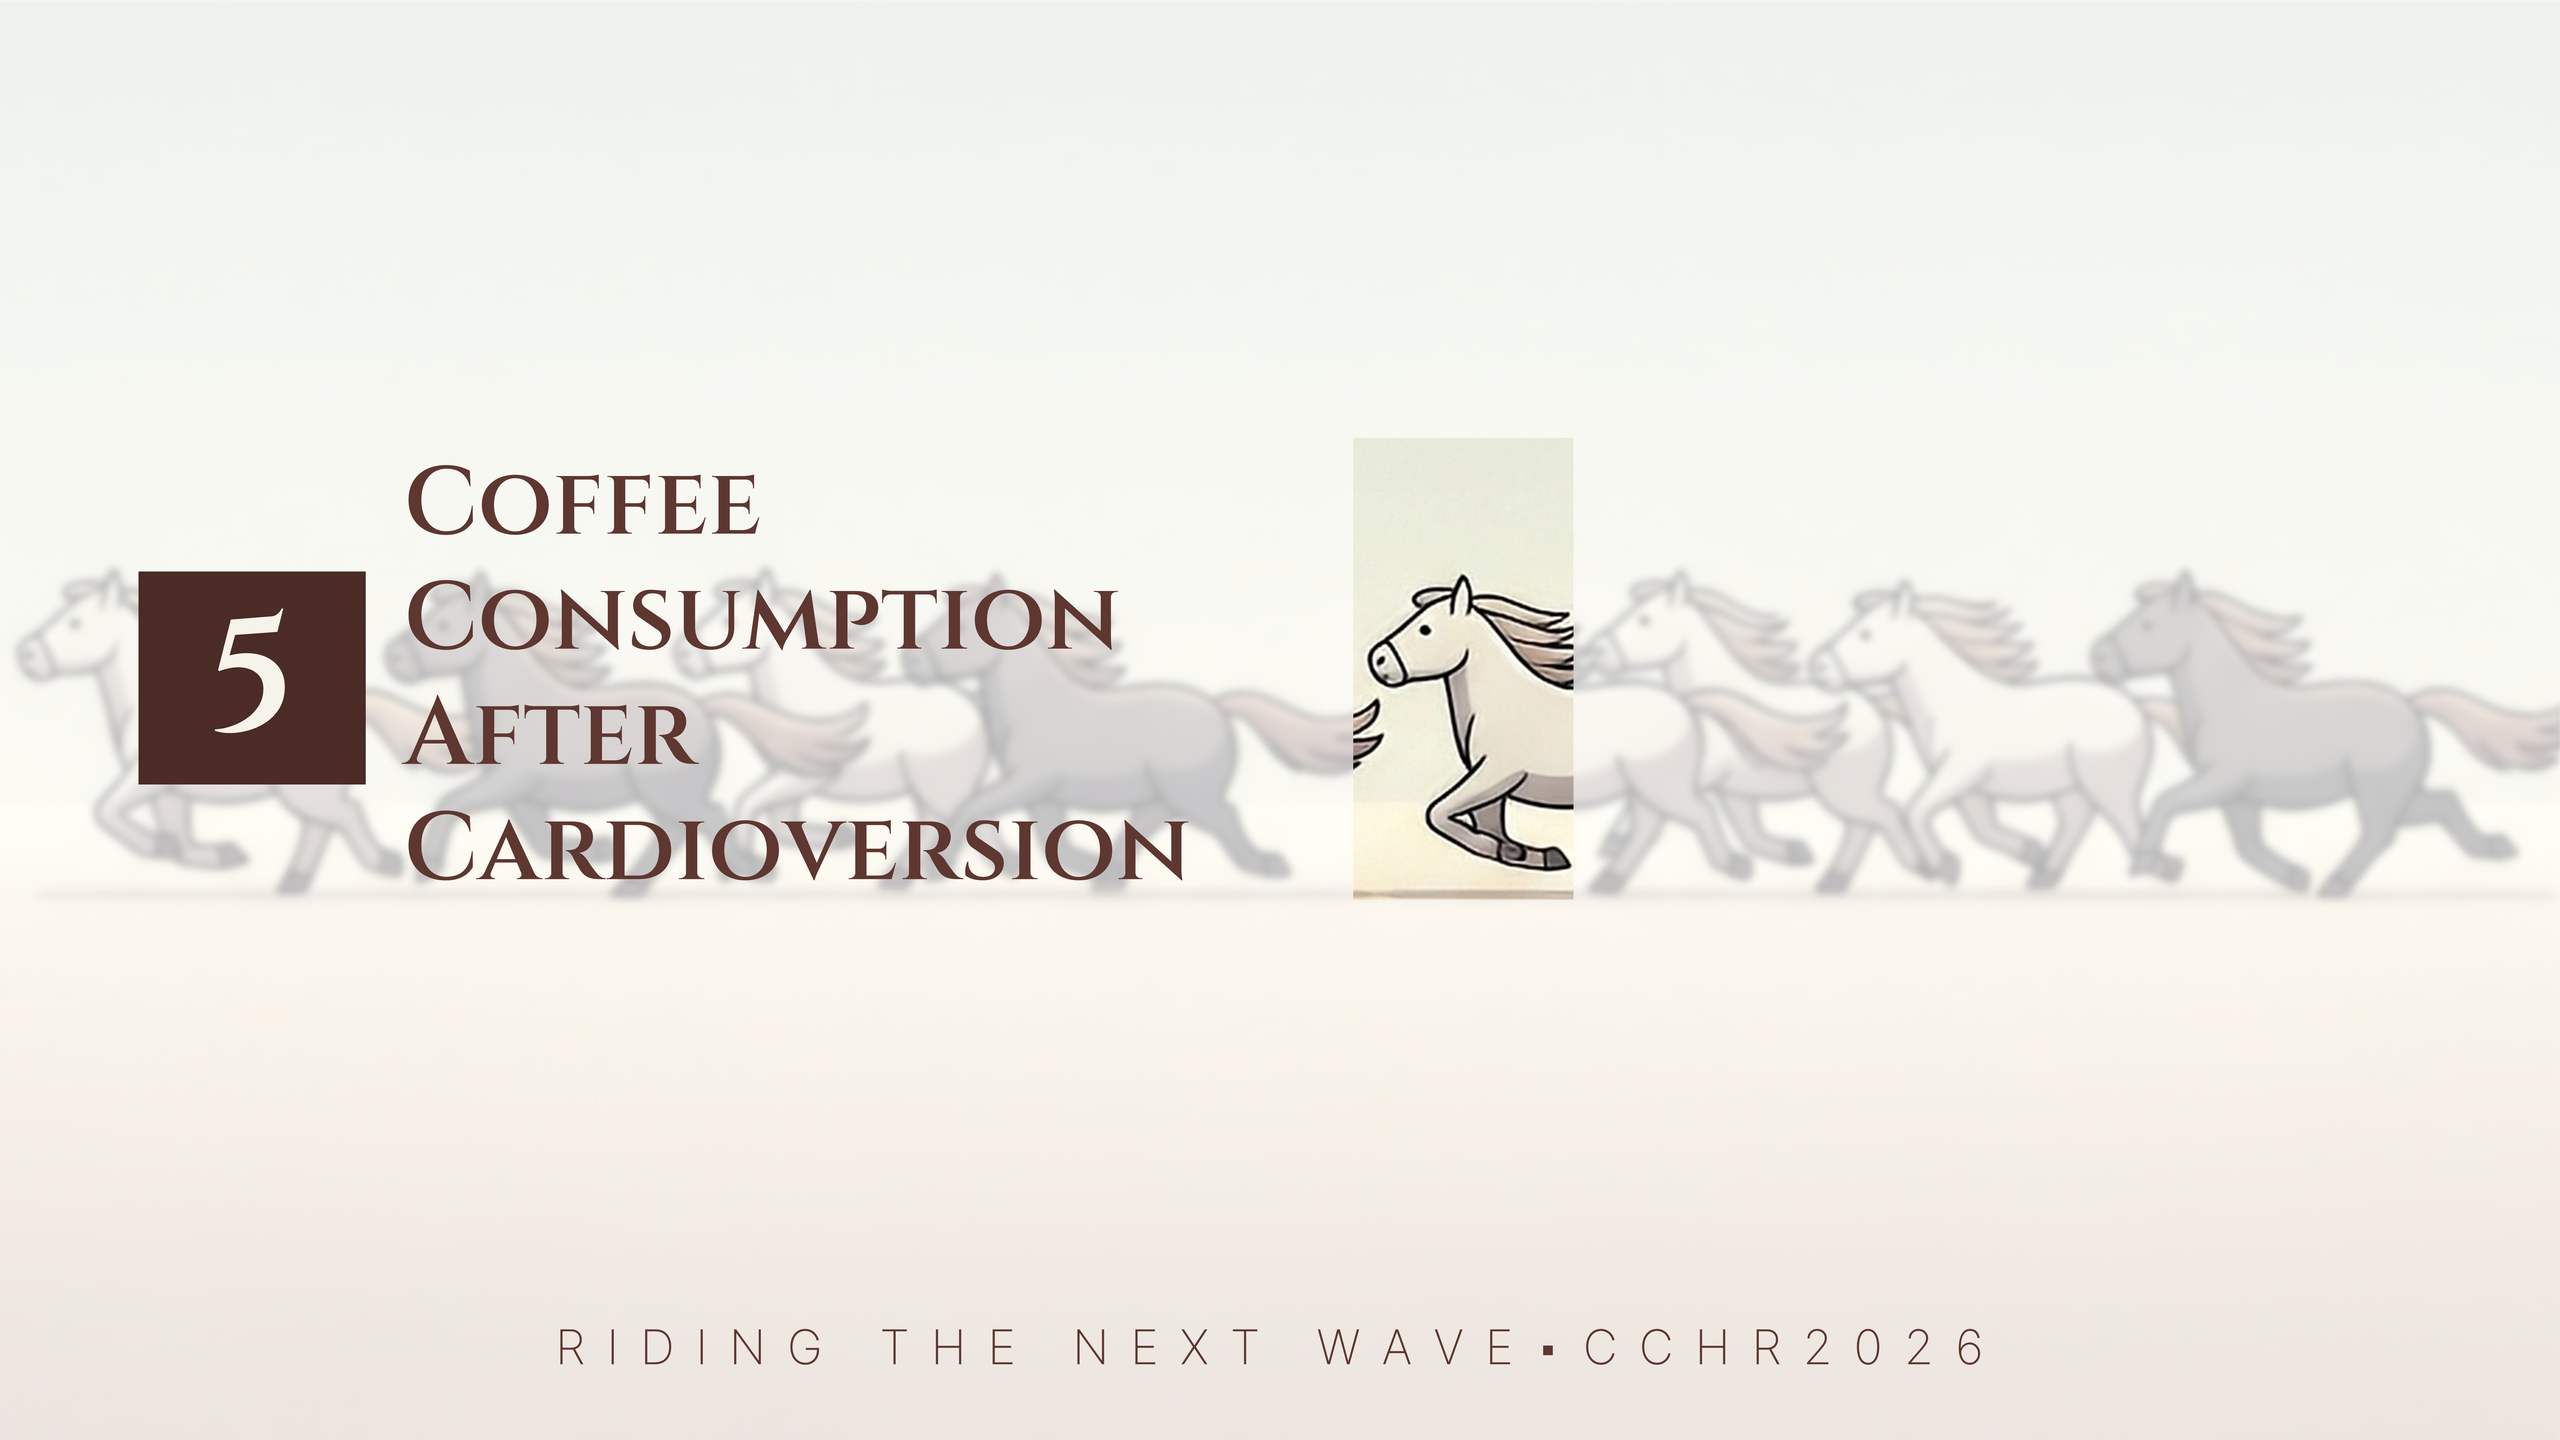
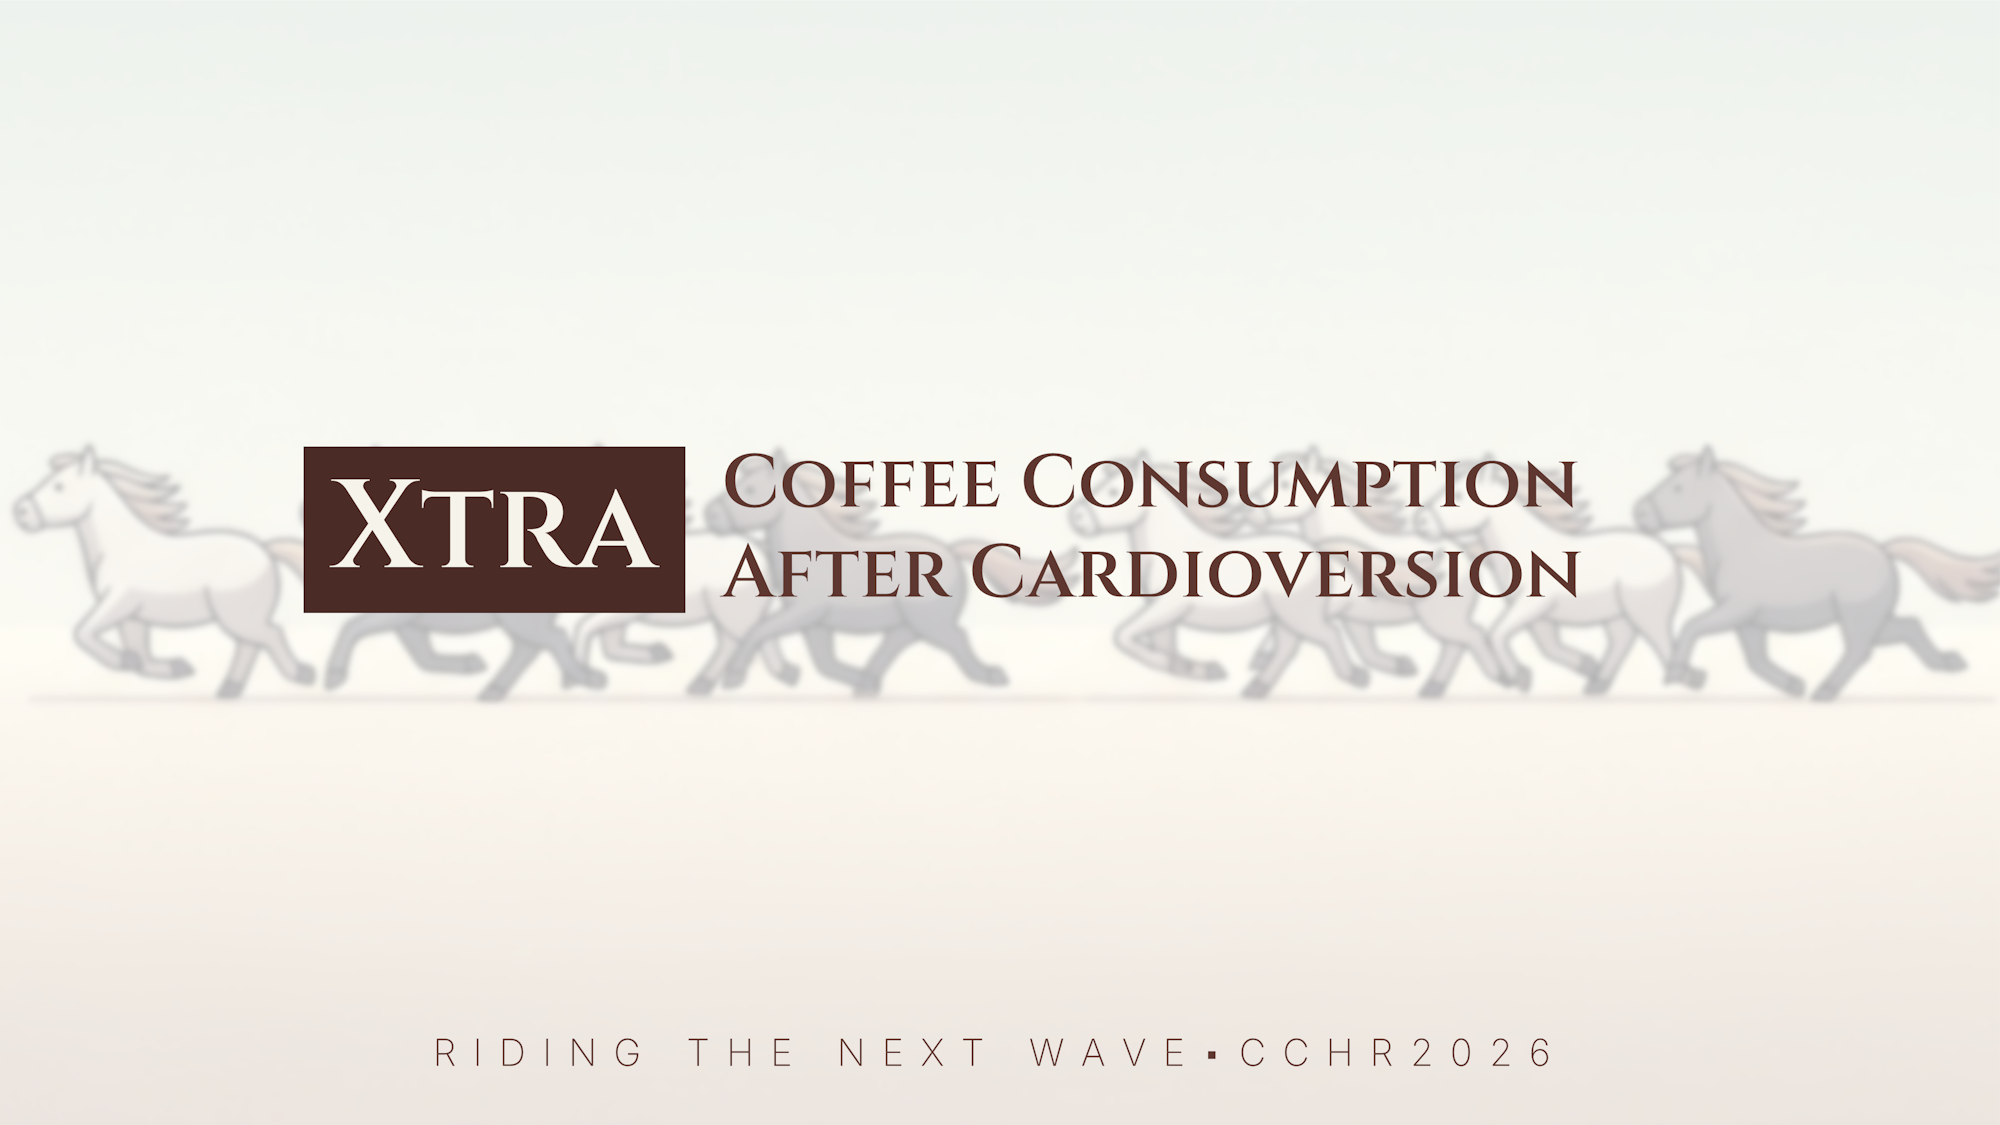
u

diff --git a/EPTrialsReview/2026/index.html b/EPTrialsReview/2026/index.html
@@ -540,38 +540,49 @@
 </div>
 </div>
 
-<!-- Topic 5 Coffee -->
+<!-- Topic 5 SCN5A -->
 <div id="no5" class="topic lightgrey"> 
   <div class="headLine">
-    <span style="border-bottom: #292330 solid 0.2vh;"><sup>5</sup> Coffee after Cardioversion</span>
+    <span style="border-bottom: #292330 solid 0.2vh;"><sup>5</sup> Long-term Prognosis of SCN5A Loss of Function Variant</span>
   </div>
 <div class="carousel" id="carousel5">
   <div class="carousel-items" id="carousel5-items">
     <div class="carousel-item">
       <picture>
         <!--source media="(max-width:900px)" srcset="media/mobile/equipment.png" loading="lazy"-->
-        <img src="media/coffee/Slide30.PNG" loading="lazy">
+        <img src="media/scn5a/Slide1.PNG" loading="lazy">
       </picture>
     </div>
     <div class="carousel-item">
       <picture>
         <!--source media="(max-width:900px)" srcset="media/mobile/equipment.png" loading="lazy"-->
-        <img src="media/coffee/Slide31.PNG" loading="lazy">
+        <img src="media/scn5a/Slide2.PNG" loading="lazy">
       </picture>
       <div class="carousel-item-ref">
-        <a href="https://doi.org/10.1001/jama.2025.21056" target="_blank" style="color: #888;">
-          Wong et al. JAMA 2026
+        <a href="https://doi.org/10.1016/j.hrthm.2024.10.057" target="_blank" style="color: #888;">
+          Tuijnenberg et al. Heart Rhythm 2025.
         </a>
       </div>
     </div>
     <div class="carousel-item">
       <picture>
         <!--source media="(max-width:900px)" srcset="media/mobile/equipment.png" loading="lazy"-->
-        <img src="Media/coffee/Slide32.PNG" loading="lazy">
+        <img src="Media/scn5a/Slide3.PNG" loading="lazy">
       </picture>
       <div class="carousel-item-ref">
-        <a href="https://doi.org/10.1001/jama.2025.21056" target="_blank" style="color: #888;">
-          Wong et al. JAMA 2026
+        <a href="https://doi.org/10.1016/j.hrthm.2024.10.057" target="_blank" style="color: #888;">
+          Tuijnenberg et al. Heart Rhythm 2025.
+        </a>
+      </div>
+    </div>
+    <div class="carousel-item">
+      <picture>
+        <!--source media="(max-width:900px)" srcset="media/mobile/equipment.png" loading="lazy"-->
+        <img src="Media/scn5a/Slide4.PNG" loading="lazy">
+      </picture>
+      <div class="carousel-item-ref">
+        <a href="https://doi.org/10.1016/j.hrthm.2024.10.057" target="_blank" style="color: #888;">
+          Tuijnenberg et al. Heart Rhythm 2025.
         </a>
       </div>
     </div>
@@ -775,6 +786,49 @@
 </div>
 </div>
 
+<!-- Topic Extra Coffee -->
+<div id="no9" class="topic lightgrey"> 
+  <div class="headLine">
+    <span style="border-bottom: #292330 solid 0.2vh;"><sup class="anek-light" style="text-transform: lowercase;" >extra</sup> Coffee after Cardioversion</span>
+  </div>
+<div class="carousel" id="carousel9">
+  <div class="carousel-items" id="carousel9-items">
+    <div class="carousel-item">
+      <picture>
+        <!--source media="(max-width:900px)" srcset="media/mobile/equipment.png" loading="lazy"-->
+        <img src="media/coffee/Slide30.PNG" loading="lazy">
+      </picture>
+    </div>
+    <div class="carousel-item">
+      <picture>
+        <!--source media="(max-width:900px)" srcset="media/mobile/equipment.png" loading="lazy"-->
+        <img src="media/coffee/Slide31.PNG" loading="lazy">
+      </picture>
+      <div class="carousel-item-ref">
+        <a href="https://doi.org/10.1001/jama.2025.21056" target="_blank" style="color: #888;">
+          Wong et al. JAMA 2026
+        </a>
+      </div>
+    </div>
+    <div class="carousel-item">
+      <picture>
+        <!--source media="(max-width:900px)" srcset="media/mobile/equipment.png" loading="lazy"-->
+        <img src="Media/coffee/Slide32.PNG" loading="lazy">
+      </picture>
+      <div class="carousel-item-ref">
+        <a href="https://doi.org/10.1001/jama.2025.21056" target="_blank" style="color: #888;">
+          Wong et al. JAMA 2026
+        </a>
+      </div>
+    </div>
+  </div>
+  <button class="carousel-control-prev" onclick="prevSlide('carousel9')">❮</button>
+  <button class="carousel-control-next" onclick="nextSlide('carousel9')">❯</button>
+  <div class="dots" id="carousel9-dots"></div>
+  <div class="caption" id="carousel9-caption"></div>
+</div>
+</div>
+
 <!--footer-->
 <div class="footer">
   <div style="max-width: 600px;margin-left: auto;margin-right: auto;text-align: center;">
@@ -863,9 +917,10 @@
       'DFT was not free of complications.'
     ],
     carousel5: [
-      'Conventional wisdom holds that caffeinated coffee is proarrhythmic.',
-      'DECAF RCT enrolled coffee drinkers to continue or discontinue coffee after cardioversion.',
-      'No difference in recurrent rate of AF or AFL.'
+      'The long-term prognosis of patients with a loss-of-function variant in the cardiac sodium channel gene SCN5A is unknown.',
+      'Symptom status is an important primary risk stratifier.',
+      'Beyond symptoms, male sex and QRS duration are indepedent predictors of arrhythmic events.',
+      'Key predictors of arrhythmic risk in patients with an SCN5A loss-of-function variant, regardless of a Brugada syndrome diagnosis, are symptoms at baseline, male sex, and prolonged QRS interval.'
     ],
     carousel6: [
       'Evidence from RCTs on benefits of risk factor modifications in AF patients is lacking.',
@@ -887,7 +942,12 @@
       'Medical digital twins are mechanistic computational models of organs that mimic system behavior and have predictive capabilities.',
       'Digital twin model was generated by cardiac MRI. The model predicts VT citcuits, target ablation, and inducibility.',
       'The study shows the feasibility and clinical outcomes of using personalized heart digital twins to guide clinical VT ablation.'
-    ],    
+    ],
+    carousel9: [
+      'Conventional wisdom holds that caffeinated coffee is proarrhythmic.',
+      'DECAF RCT enrolled coffee drinkers to continue or discontinue coffee after cardioversion.',
+      'No difference in recurrent rate of AF or AFL.'
+    ]    
   };
 
   // Initialize all carousels

diff --git a/playground/resize50.py b/playground/resize50.py
@@ -20,8 +20,8 @@ def resize_pngs_in_folder(folder_path):
             try:
                 with Image.open(img_path) as img:
                     # Calculate new dimensions (50% of original)
-                    new_width = int(img.width * 0.25)
-                    new_height = int(img.height * 0.25)
+                    new_width = int(img.width * 0.5)
+                    new_height = int(img.height * 0.5)
                     
                     # Resize the image using high-quality resampling
                     resized_img = img.resize((new_width, new_height), Image.Resampling.LANCZOS)